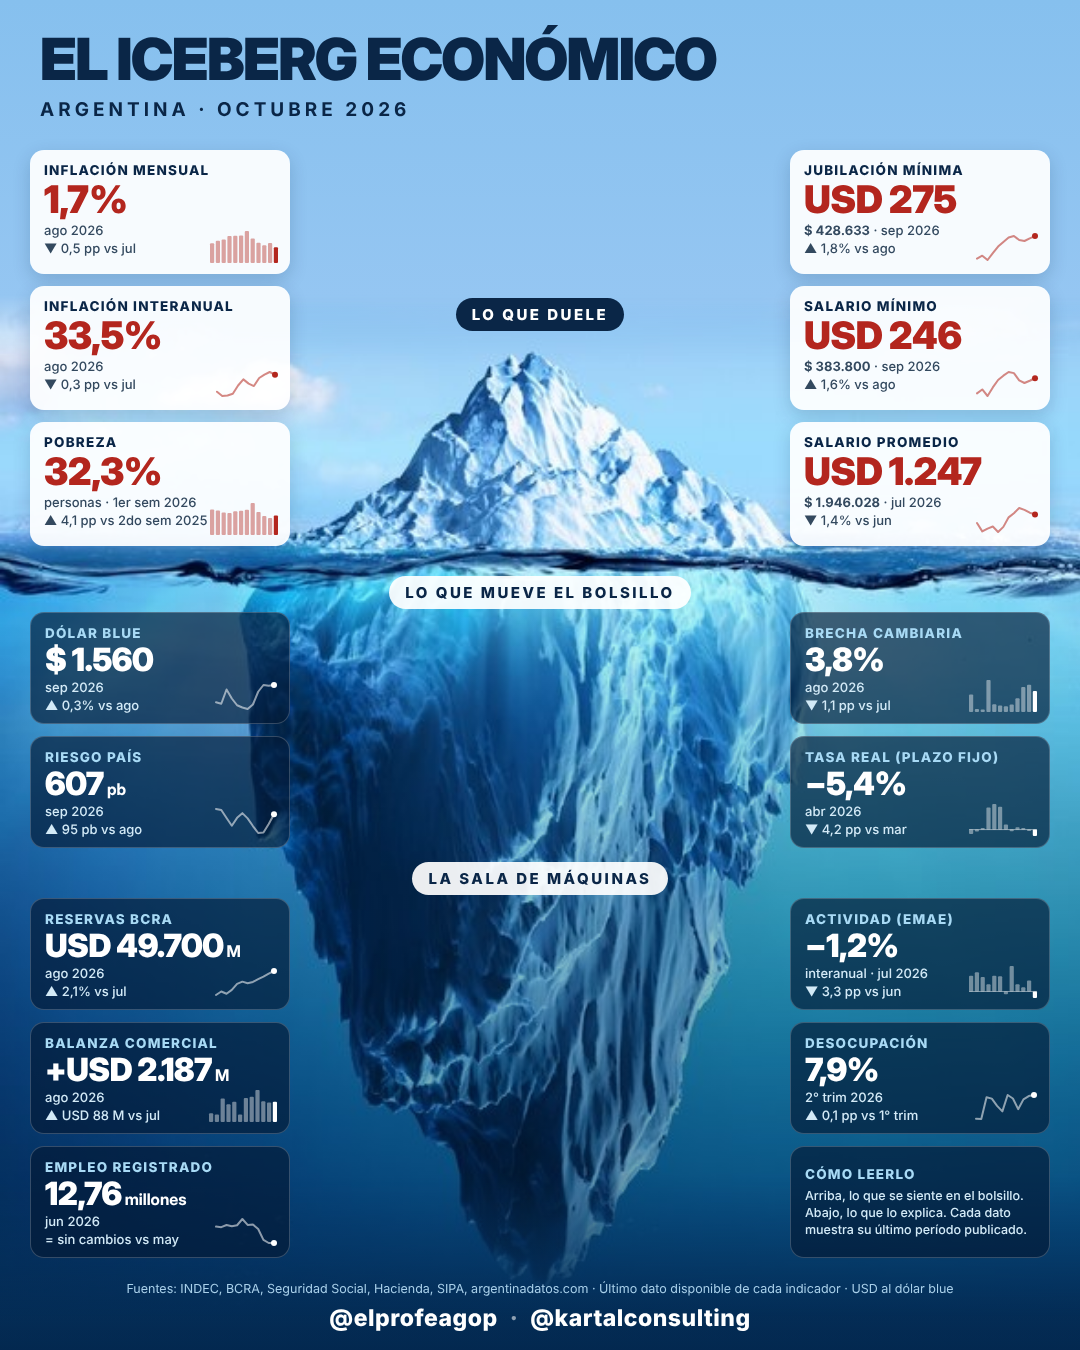
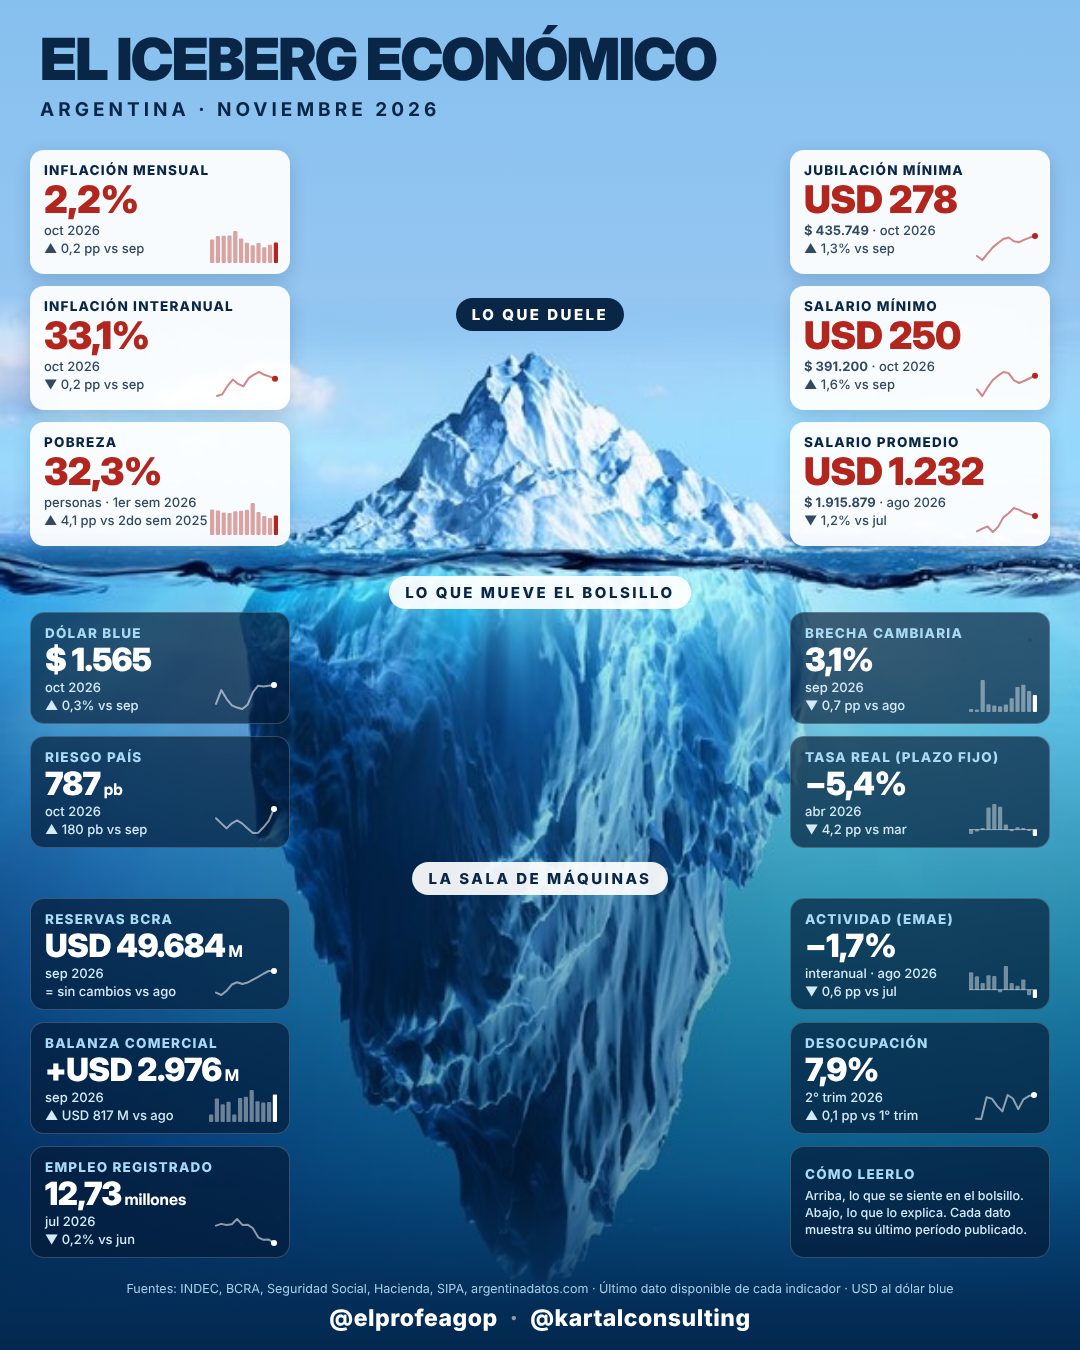
Iceberg Noviembre 2026

diff --git a/index.html b/index.html
@@ -3,13 +3,13 @@
 <head>
 <meta charset="utf-8">
 <meta name="viewport" content="width=device-width, initial-scale=1">
-<title>El Iceberg Económico de Argentina · Octubre 2026</title>
+<title>El Iceberg Económico de Argentina · Noviembre 2026</title>
 <meta name="description" content="Lo que duele, lo que mueve el bolsillo y la sala de máquinas de la economía argentina. Se actualiza cada mes.">
 <meta property="og:type" content="website">
-<meta property="og:title" content="El Iceberg Económico de Argentina · Octubre 2026">
+<meta property="og:title" content="El Iceberg Económico de Argentina · Noviembre 2026">
 <meta property="og:description" content="Inflación, pobreza, salarios, dólar, reservas y más. Por @elprofeagop y @kartalconsulting.">
-<meta property="og:image" content="https://kartal.com.ar/informes/iceberg/iceberg.png?v=2026-10">
-<meta property="og:url" content="https://kartal.com.ar/informes/iceberg/">
+<meta property="og:image" content="https://agopkaragoz.github.io/iceberg-economico/iceberg.png?v=2026-11">
+<meta property="og:url" content="https://kartal.com.ar/iceberg/">
 <meta name="twitter:card" content="summary_large_image">
 <style>
   html, body { margin: 0; background: #04294f; }
@@ -18,6 +18,6 @@
 </style>
 </head>
 <body>
-<main><img src="iceberg.png?v=2026-10" width="1080" height="1350" alt="Iceberg económico de Argentina, Octubre 2026. Inflación mensual 1,7%, interanual 33,5%, pobreza 32,3%."></main>
+<main><img src="iceberg.png?v=2026-11" width="1080" height="1350" alt="Iceberg económico de Argentina, Noviembre 2026. Inflación mensual 2,2%, interanual 33,1%, pobreza 32,3%."></main>
 </body>
 </html>
